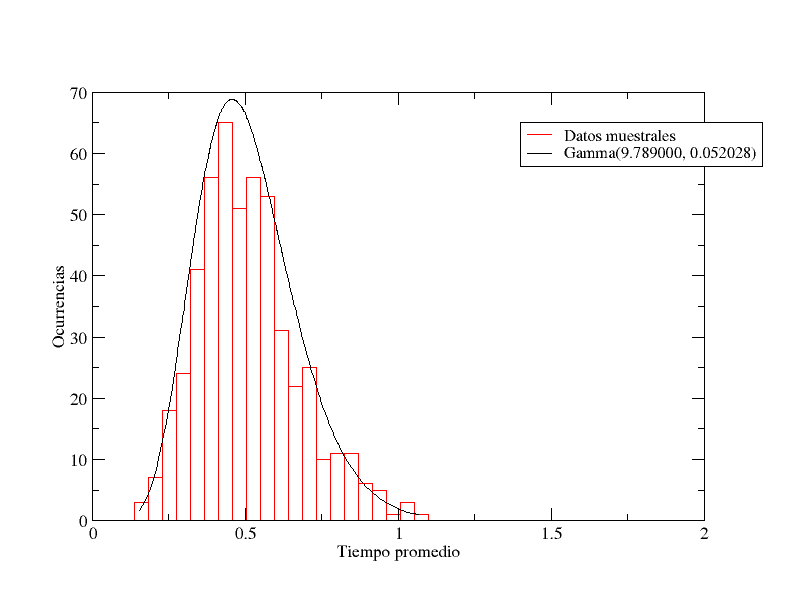
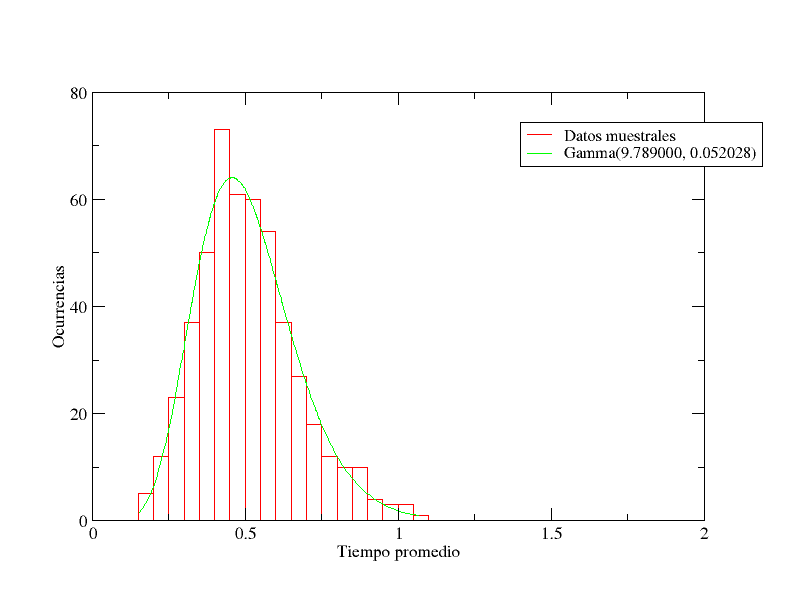
entregado

diff --git a/informe.tex b/informe.tex
@@ -78,7 +78,17 @@ se puede observar que los datos estan desplazados hacia la izquierda y altamente
 
 \section{Bondad de los ajustes}
 
+\paragraph{Comparaci\'on de frecuencias:}
+En las Figura~\ref{freq-normal}, se comparan los datos muestrales con la
+distribuci\'on normal. En la Figura~\ref{freq-lognormal}, se realiza la misma
+comparaci\'on con la distribuci\'on LogNormal. Finalmente, en la
+Figura~\ref{freq-gamma}, se compara con la distribucion Gamma. De estos
+graficos podemos suponer que la distribuci\'on Gamma es la que mejor se ajusta
+a los datos.
 
+Luego, se realizaron las pruebas de hipotesis tanto usando $\chi^2$ como
+Kolmogorov Smirnov y se presentan los resultados obtenidos en el
+cuadro~\ref{estimators}
 
 \begin{figure}
   \centering

diff --git a/main.c b/main.c
@@ -107,9 +107,9 @@ int main(int argc, char *argv[]){
     
     /*4.a)*/    
        
-    normal_frequencies(results, sample, mean, s2*((sample-1)/(double)sample), deltab);
-    lognormal_frequencies(results, sample, ln_mean, ln_s2, deltab);
-    gamma_frequencies(results, sample, alpha, beta, gamma_fn, deltab);
+    normal_frequencies(results, sample, mean, s2*((sample-1)/(double)sample), 0.05);
+    lognormal_frequencies(results, sample, ln_mean, ln_s2, 0.05);
+    gamma_frequencies(results, sample, alpha, beta, gamma_fn, 0.05);
     
     /*4.b)*/
     
